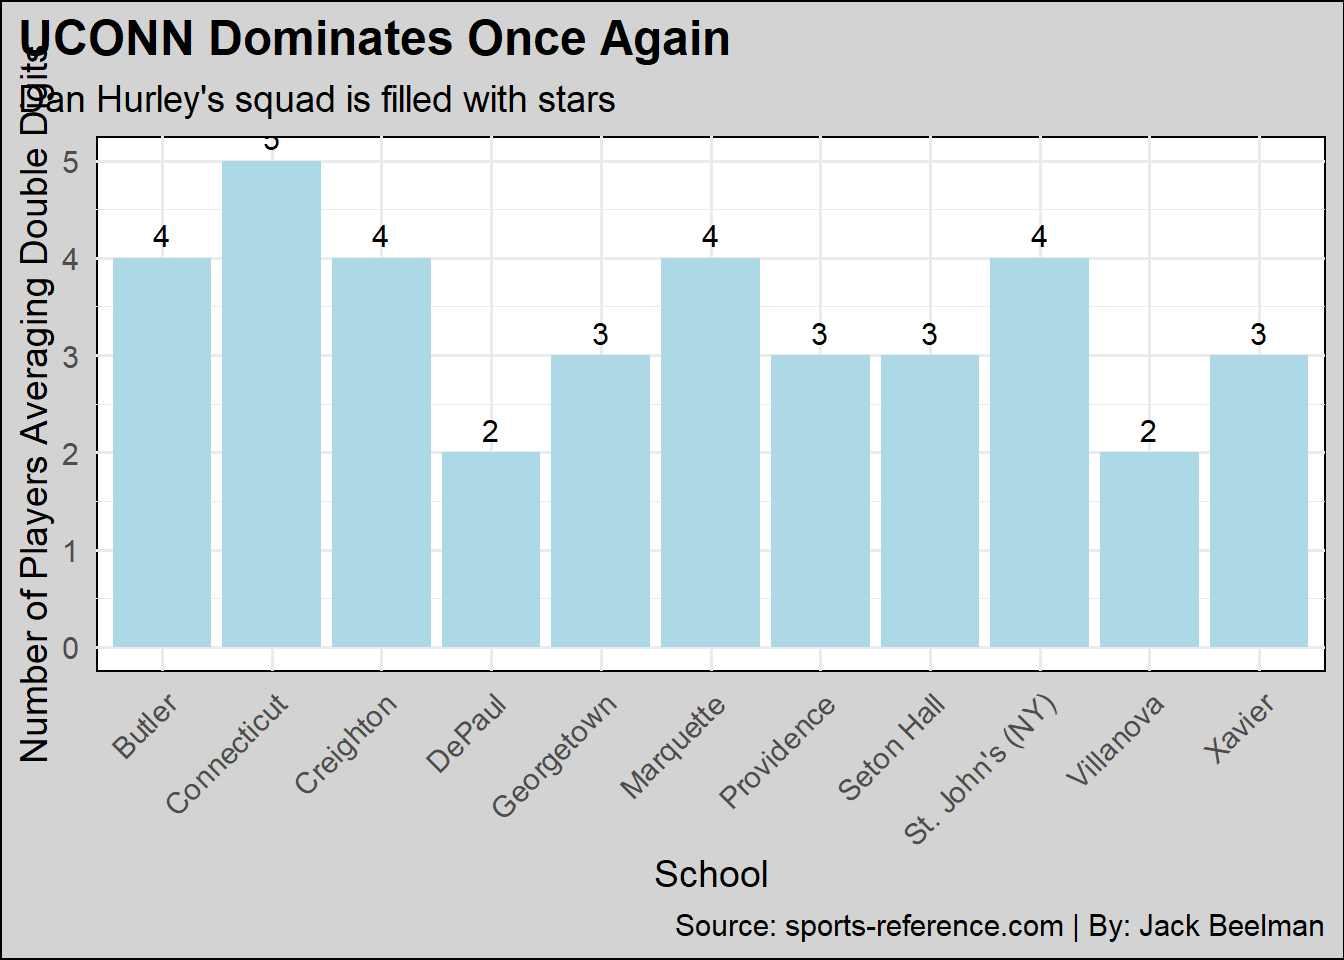
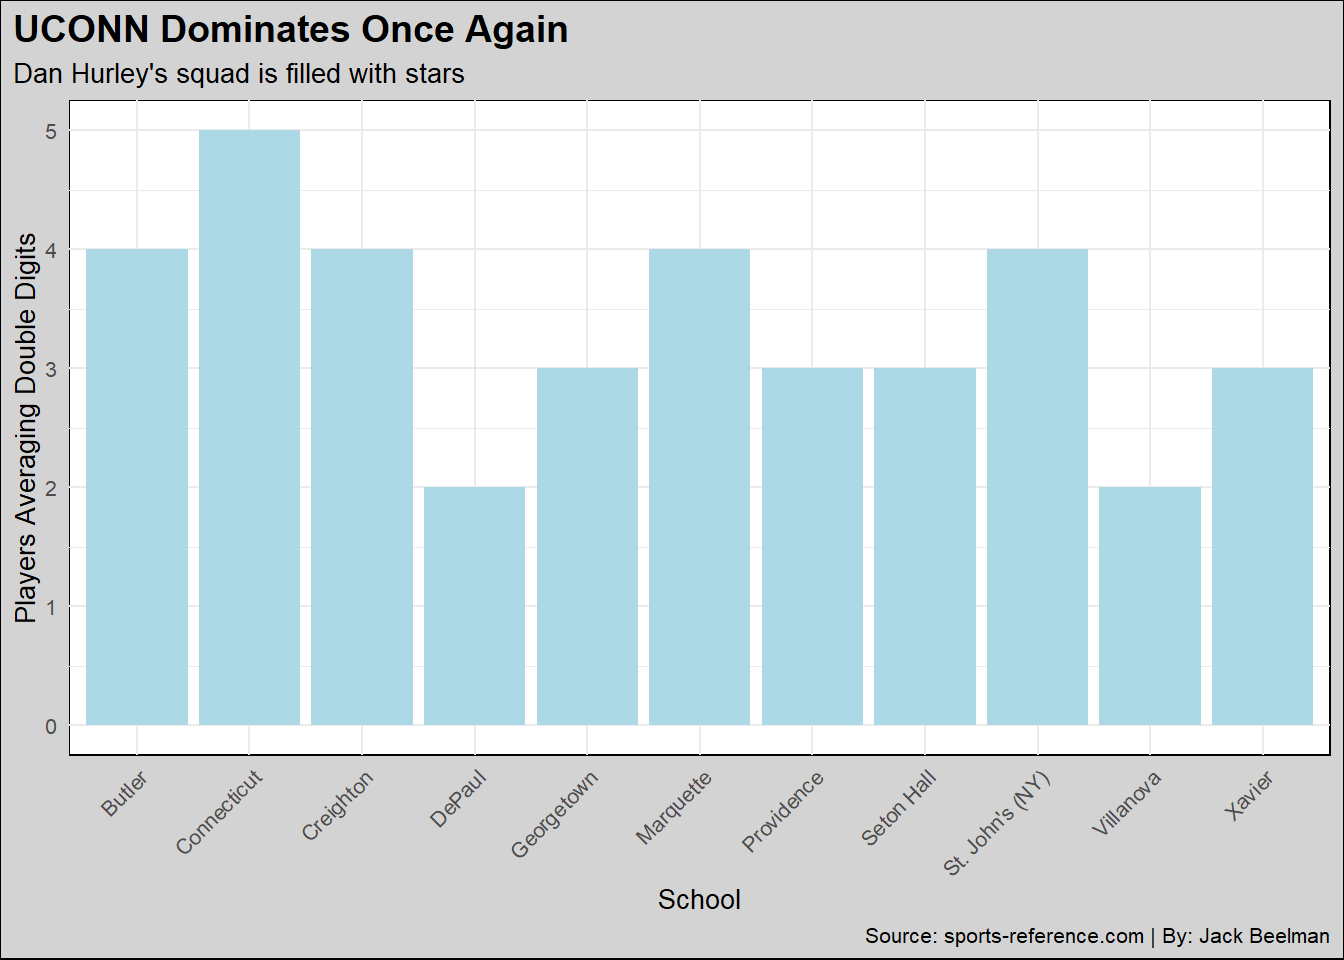
Update

diff --git a/posts/Big-East-Scoring/index.html b/posts/Big-East-Scoring/index.html
@@ -249,28 +249,22 @@ team_stats &lt;- read.csv("C:/Users/jackb/Downloads/team_stats.csv")</code></pre
 <span id="cb7-5"><a href="#cb7-5" aria-hidden="true" tabindex="-1"></a>    <span class="at">stat =</span> <span class="st">"identity"</span>,</span>
 <span id="cb7-6"><a href="#cb7-6" aria-hidden="true" tabindex="-1"></a>    <span class="at">fill =</span> <span class="st">"lightblue"</span></span>
 <span id="cb7-7"><a href="#cb7-7" aria-hidden="true" tabindex="-1"></a>  ) <span class="sc">+</span></span>
-<span id="cb7-8"><a href="#cb7-8" aria-hidden="true" tabindex="-1"></a>  <span class="fu">geom_text</span>(</span>
-<span id="cb7-9"><a href="#cb7-9" aria-hidden="true" tabindex="-1"></a>    <span class="at">data =</span> team_double_digit_count,</span>
-<span id="cb7-10"><a href="#cb7-10" aria-hidden="true" tabindex="-1"></a>    <span class="fu">aes</span>(<span class="at">x =</span> Team, <span class="at">y =</span> Players_in_double_digits, <span class="at">label =</span> Players_in_double_digits),</span>
-<span id="cb7-11"><a href="#cb7-11" aria-hidden="true" tabindex="-1"></a>    <span class="at">vjust =</span> <span class="sc">-</span><span class="fl">0.5</span>,</span>
-<span id="cb7-12"><a href="#cb7-12" aria-hidden="true" tabindex="-1"></a>    <span class="at">size =</span> <span class="dv">4</span></span>
-<span id="cb7-13"><a href="#cb7-13" aria-hidden="true" tabindex="-1"></a>  ) <span class="sc">+</span></span>
-<span id="cb7-14"><a href="#cb7-14" aria-hidden="true" tabindex="-1"></a>  <span class="fu">labs</span>(</span>
-<span id="cb7-15"><a href="#cb7-15" aria-hidden="true" tabindex="-1"></a>    <span class="at">title =</span> <span class="st">"UCONN Dominates Once Again"</span>,</span>
-<span id="cb7-16"><a href="#cb7-16" aria-hidden="true" tabindex="-1"></a>    <span class="at">subtitle =</span> <span class="st">"Dan Hurley's squad is filled with stars"</span>,</span>
-<span id="cb7-17"><a href="#cb7-17" aria-hidden="true" tabindex="-1"></a>    <span class="at">x =</span> <span class="st">"School"</span>,</span>
-<span id="cb7-18"><a href="#cb7-18" aria-hidden="true" tabindex="-1"></a>    <span class="at">y =</span> <span class="st">"Number of Players Averaging Double Digits"</span>,</span>
-<span id="cb7-19"><a href="#cb7-19" aria-hidden="true" tabindex="-1"></a>    <span class="at">caption =</span> <span class="st">"Source: sports-reference.com | By: Jack Beelman"</span></span>
-<span id="cb7-20"><a href="#cb7-20" aria-hidden="true" tabindex="-1"></a>  ) <span class="sc">+</span></span>
-<span id="cb7-21"><a href="#cb7-21" aria-hidden="true" tabindex="-1"></a>  <span class="fu">theme_minimal</span>(<span class="at">base_size =</span> <span class="dv">14</span>) <span class="sc">+</span></span>
-<span id="cb7-22"><a href="#cb7-22" aria-hidden="true" tabindex="-1"></a>  <span class="fu">theme</span>(</span>
-<span id="cb7-23"><a href="#cb7-23" aria-hidden="true" tabindex="-1"></a>    <span class="at">plot.title =</span> <span class="fu">element_text</span>(<span class="at">size =</span> <span class="dv">18</span>, <span class="at">face =</span> <span class="st">"bold"</span>, <span class="at">hjust =</span> <span class="dv">0</span>),</span>
-<span id="cb7-24"><a href="#cb7-24" aria-hidden="true" tabindex="-1"></a>    <span class="at">plot.subtitle =</span> <span class="fu">element_text</span>(<span class="at">size =</span> <span class="dv">14</span>),</span>
-<span id="cb7-25"><a href="#cb7-25" aria-hidden="true" tabindex="-1"></a>    <span class="at">axis.text.x =</span> <span class="fu">element_text</span>(<span class="at">angle =</span> <span class="dv">45</span>, <span class="at">hjust =</span> <span class="dv">1</span>),</span>
-<span id="cb7-26"><a href="#cb7-26" aria-hidden="true" tabindex="-1"></a>    <span class="at">panel.background =</span> <span class="fu">element_rect</span>(<span class="at">fill =</span> <span class="st">"white"</span>, <span class="at">color =</span> <span class="st">"black"</span>),</span>
-<span id="cb7-27"><a href="#cb7-27" aria-hidden="true" tabindex="-1"></a>    <span class="at">plot.background =</span> <span class="fu">element_rect</span>(<span class="at">fill =</span> <span class="st">"lightgray"</span>, <span class="at">color =</span> <span class="st">"black"</span>),</span>
-<span id="cb7-28"><a href="#cb7-28" aria-hidden="true" tabindex="-1"></a>    <span class="at">plot.title.position =</span> <span class="st">"plot"</span></span>
-<span id="cb7-29"><a href="#cb7-29" aria-hidden="true" tabindex="-1"></a>  )</span></code><button title="Copy to Clipboard" class="code-copy-button"><i class="bi"></i></button></pre></div>
+<span id="cb7-8"><a href="#cb7-8" aria-hidden="true" tabindex="-1"></a>  <span class="fu">labs</span>(</span>
+<span id="cb7-9"><a href="#cb7-9" aria-hidden="true" tabindex="-1"></a>    <span class="at">title =</span> <span class="st">"UCONN Dominates Once Again"</span>,</span>
+<span id="cb7-10"><a href="#cb7-10" aria-hidden="true" tabindex="-1"></a>    <span class="at">subtitle =</span> <span class="st">"Dan Hurley's squad is filled with stars"</span>,</span>
+<span id="cb7-11"><a href="#cb7-11" aria-hidden="true" tabindex="-1"></a>    <span class="at">x =</span> <span class="st">"School"</span>,</span>
+<span id="cb7-12"><a href="#cb7-12" aria-hidden="true" tabindex="-1"></a>    <span class="at">y =</span> <span class="st">"Players Averaging Double Digits"</span>,</span>
+<span id="cb7-13"><a href="#cb7-13" aria-hidden="true" tabindex="-1"></a>    <span class="at">caption =</span> <span class="st">"Source: sports-reference.com | By: Jack Beelman"</span></span>
+<span id="cb7-14"><a href="#cb7-14" aria-hidden="true" tabindex="-1"></a>  ) <span class="sc">+</span></span>
+<span id="cb7-15"><a href="#cb7-15" aria-hidden="true" tabindex="-1"></a>  <span class="fu">theme_minimal</span>(<span class="at">base_size =</span> <span class="dv">10</span>) <span class="sc">+</span></span>
+<span id="cb7-16"><a href="#cb7-16" aria-hidden="true" tabindex="-1"></a>  <span class="fu">theme</span>(</span>
+<span id="cb7-17"><a href="#cb7-17" aria-hidden="true" tabindex="-1"></a>    <span class="at">plot.title =</span> <span class="fu">element_text</span>(<span class="at">size =</span> <span class="dv">14</span>, <span class="at">face =</span> <span class="st">"bold"</span>, <span class="at">hjust =</span> <span class="dv">0</span>),</span>
+<span id="cb7-18"><a href="#cb7-18" aria-hidden="true" tabindex="-1"></a>    <span class="at">plot.subtitle =</span> <span class="fu">element_text</span>(<span class="at">size =</span> <span class="dv">10</span>),</span>
+<span id="cb7-19"><a href="#cb7-19" aria-hidden="true" tabindex="-1"></a>    <span class="at">axis.text.x =</span> <span class="fu">element_text</span>(<span class="at">angle =</span> <span class="dv">45</span>, <span class="at">hjust =</span> <span class="dv">1</span>),</span>
+<span id="cb7-20"><a href="#cb7-20" aria-hidden="true" tabindex="-1"></a>    <span class="at">panel.background =</span> <span class="fu">element_rect</span>(<span class="at">fill =</span> <span class="st">"white"</span>, <span class="at">color =</span> <span class="st">"black"</span>),</span>
+<span id="cb7-21"><a href="#cb7-21" aria-hidden="true" tabindex="-1"></a>    <span class="at">plot.background =</span> <span class="fu">element_rect</span>(<span class="at">fill =</span> <span class="st">"lightgray"</span>, <span class="at">color =</span> <span class="st">"black"</span>),</span>
+<span id="cb7-22"><a href="#cb7-22" aria-hidden="true" tabindex="-1"></a>    <span class="at">plot.title.position =</span> <span class="st">"plot"</span></span>
+<span id="cb7-23"><a href="#cb7-23" aria-hidden="true" tabindex="-1"></a>  )</span></code><button title="Copy to Clipboard" class="code-copy-button"><i class="bi"></i></button></pre></div>
 </details>
 <div class="cell-output-display">
 <div>

diff --git a/index.html b/index.html
@@ -205,7 +205,7 @@ window.Quarto = {
 
 <div class="quarto-listing quarto-listing-container-default" id="listing-listing">
 <div class="list quarto-listing-default">
-<div class="quarto-post image-right" data-index="0" data-categories="TkNBQSxCYXNrZXRiYWxsLEJpZyBFYXN0" data-listing-date-sort="1731823200000" data-listing-file-modified-sort="1731709962233" data-listing-date-modified-sort="NaN" data-listing-reading-time-sort="5" data-listing-word-count-sort="825">
+<div class="quarto-post image-right" data-index="0" data-categories="TkNBQSxCYXNrZXRiYWxsLEJpZyBFYXN0" data-listing-date-sort="1731823200000" data-listing-file-modified-sort="1731710725284" data-listing-date-modified-sort="NaN" data-listing-reading-time-sort="4" data-listing-word-count-sort="790">
 <div class="thumbnail">
 <p><a href="./posts/Big-East-Scoring/index.html" class="no-external"></a></p><a href="./posts/Big-East-Scoring/index.html" class="no-external">
 <p class="card-img-top"><img src="posts\Big-East-Scoring\index_files\figure-html\vis-team-double-digit-scorers-1.png"  class="thumbnail-image card-img"/></p>
